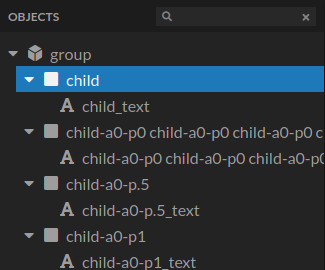
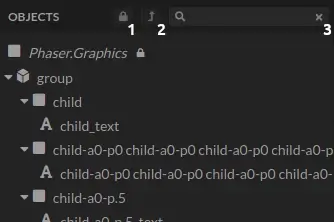
object tree actions documentation

diff --git a/src/core/editor.ts b/src/core/editor.ts
@@ -364,7 +364,7 @@ class EditorClass {
 
 			{
 				id: Actions.LOCK_SELECTION,
-				tooltip: 'Toggle lock selection',
+				tooltip: 'Lock/unlock selection',
 				toggle: true,
 				icon: 'fa-lock',
 				category: 'object-tree',

diff --git a/README.md b/README.md
@@ -119,6 +119,10 @@ The config object can have the following properties (all of them optional):
 -   It can expand and collapse its nodes (use alt + click to expand/collapse all of its children)
 -   It has an icon for each type of object to make it easy to identify them
 -   Dims invisible objects
+-   Actions:
+    1. Lock/unlock selected object
+    2. Select the selected object's parent
+    3. Filter
 
 ### Properties Panel
 
